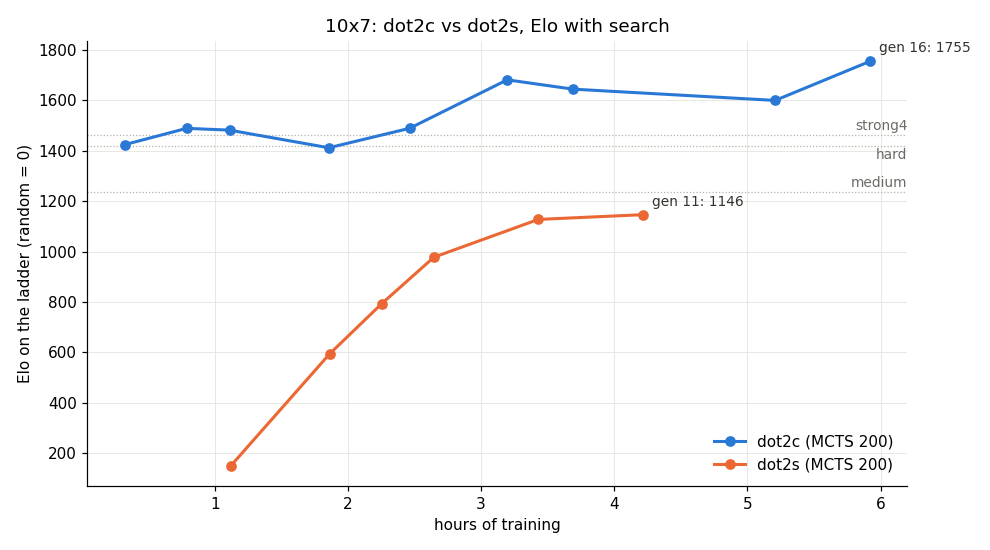
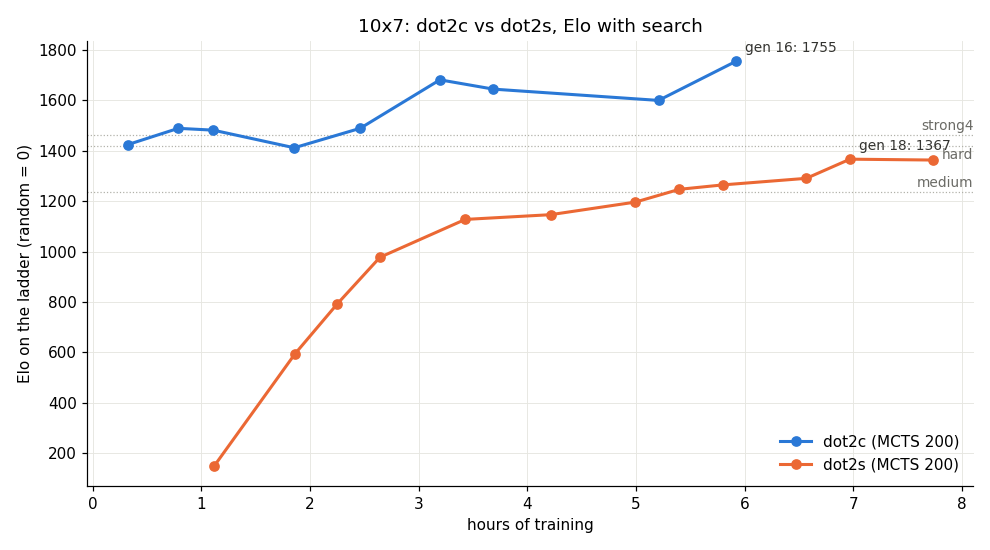
dot2s ladder through gen 20 (stopped at gen 21 self-play); Elo vs hours plot

diff --git a/docs/dot2s_ladder.md b/docs/dot2s_ladder.md
@@ -1,6 +1,6 @@
 # AlphaZero 10x7 (dot2s) — ladder per accepted generation
 
-Generated by `scripts/az_eval.py` from `runs/dot2s` (2026-10-28 16:37). Win % of the net, 100 games per cell, first mover alternating; raw = policy argmax without search, mcts = 200 simulations. Elo: Bradley-Terry vs the fixed ladder anchors, random = 0. strong here: {'node_budget': 14400}.
+Generated by `scripts/az_eval.py` from `runs/dot2s` (2026-10-28 19:23). Win % of the net, 100 games per cell, first mover alternating; raw = policy argmax without search, mcts = 200 simulations. Elo: Bradley-Terry vs the fixed ladder anchors, random = 0. strong here: {'node_budget': 14400}.
 
 Anchor Elo (from the ladder in ['docs/ladder_10x7.json', 'docs/ladder_10x7_s4.json']): random 0, greedy 870, easy 873, medium 1237, hard 1420, strong 1267, strong4 1462.
 
@@ -13,3 +13,8 @@ Anchor Elo (from the ladder in ['docs/ladder_10x7.json', 'docs/ladder_10x7_s4.js
 | 9 | 74 | 78 | 7 | 4 | 36 | 1030 | 89 | 40 | 2 | 32 | 1128 |
 | 11 | 64 | 86 | 10 | 1 | 42 | 1070 | 88 | 44 | 6 | 32 | 1146 |
 | 13 | 68 | 88 | 10 | 4 | 39 | 1073 | 78 | 58 | 14 | 42 | 1196 |
+| 14 | 66 | 98 | 18 | 4 | 62 | 1172 | 94 | 67 | 16 | 38 | 1247 |
+| 15 | 57 | 92 | 22 | 6 | 51 | 1146 | 83 | 62 | 22 | 56 | 1265 |
+| 17 | 64 | 96 | 34 | 10 | 58 | 1211 | 90 | 74 | 28 | 44 | 1291 |
+| 18 | 61 | 93 | 40 | 12 | 56 | 1216 | 94 | 84 | 42 | 49 | 1367 |
+| 20 | 60 | 96 | 57 | 14 | 73 | 1302 | 96 | 70 | 43 | 58 | 1363 |

diff --git a/docs/dot2c_vs_dot2s.md b/docs/dot2c_vs_dot2s.md
@@ -1,6 +1,6 @@
 # dot2c vs dot2s: Elo against hours of training
 
-Generated by `scripts/elo_vs_time.py` (2026-10-28 16:29). Hours = summed self-play + train + gate time up to the generation (pauses excluded). Elo on the 10x7 ladder, anchors: random 0, greedy 870, easy 873, medium 1237, hard 1420, strong 1267, strong4 1462.
+Generated by `scripts/elo_vs_time.py` (2026-10-28 19:23). Hours = summed self-play + train + gate time up to the generation (pauses excluded). Elo on the 10x7 ladder, anchors: random 0, greedy 870, easy 873, medium 1237, hard 1420, strong 1267, strong4 1462.
 
 ![](dot2c_vs_dot2s.png)
 
@@ -21,3 +21,9 @@ Generated by `scripts/elo_vs_time.py` (2026-10-28 16:29). Hours = summed self-pl
 | dot2s | 7 | 2.6 | 977 | 786 |
 | dot2s | 9 | 3.4 | 1128 | 1030 |
 | dot2s | 11 | 4.2 | 1146 | 1070 |
+| dot2s | 13 | 5.0 | 1196 | 1073 |
+| dot2s | 14 | 5.4 | 1247 | 1172 |
+| dot2s | 15 | 5.8 | 1265 | 1146 |
+| dot2s | 17 | 6.6 | 1291 | 1211 |
+| dot2s | 18 | 7.0 | 1367 | 1216 |
+| dot2s | 20 | 7.7 | 1363 | 1302 |
